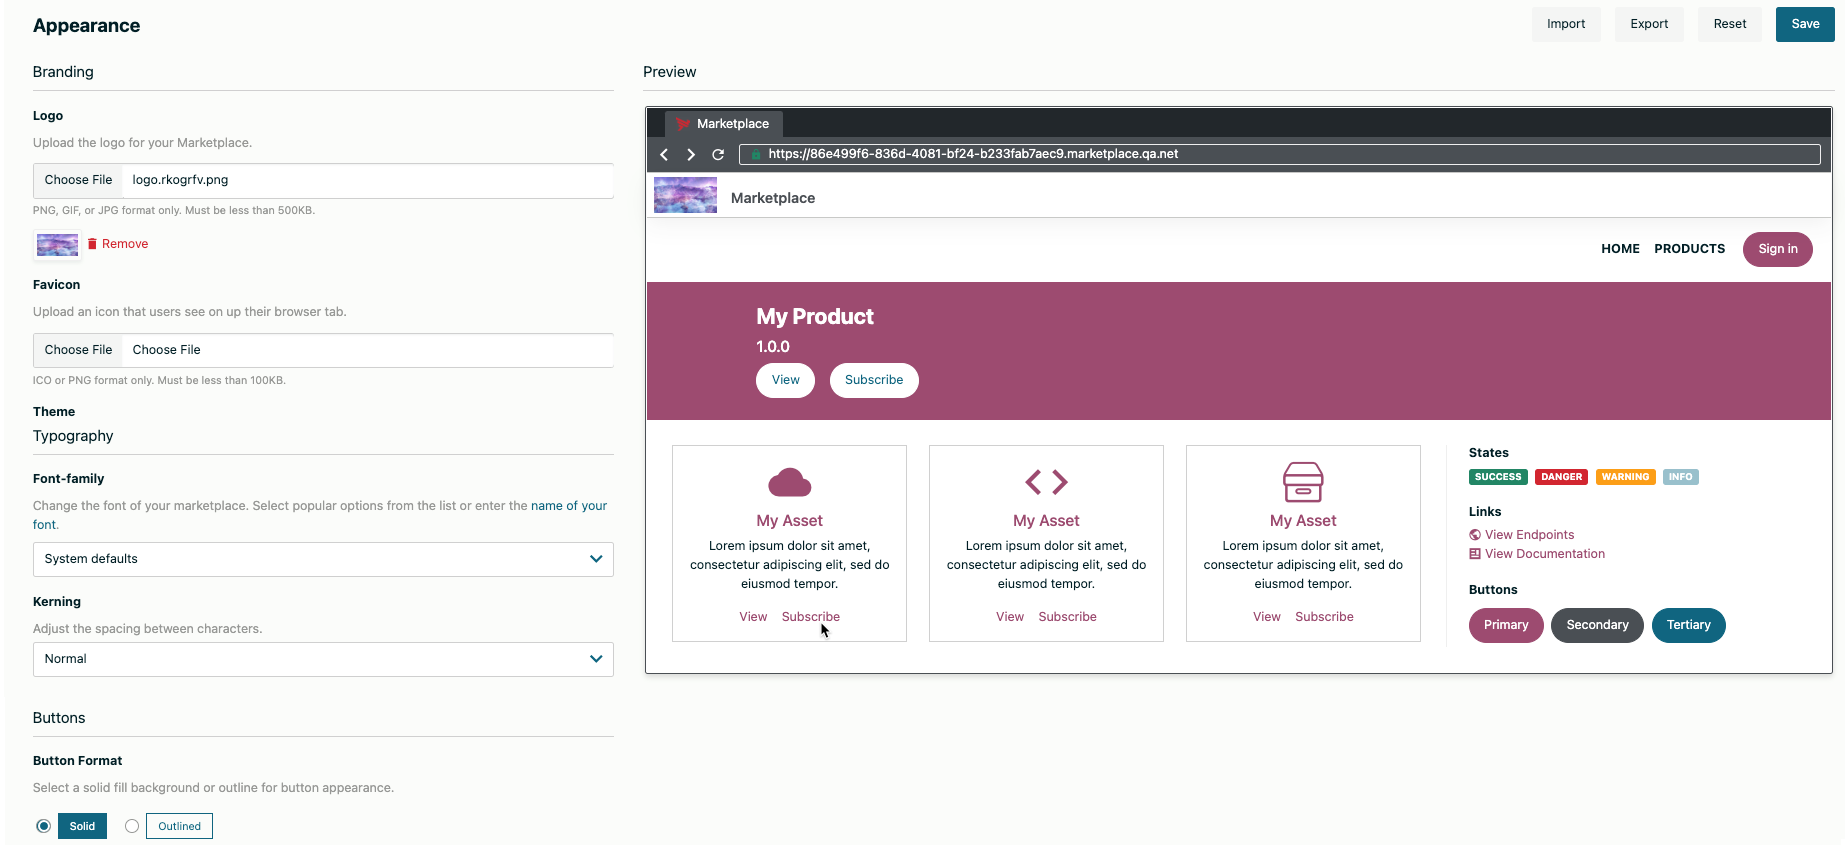
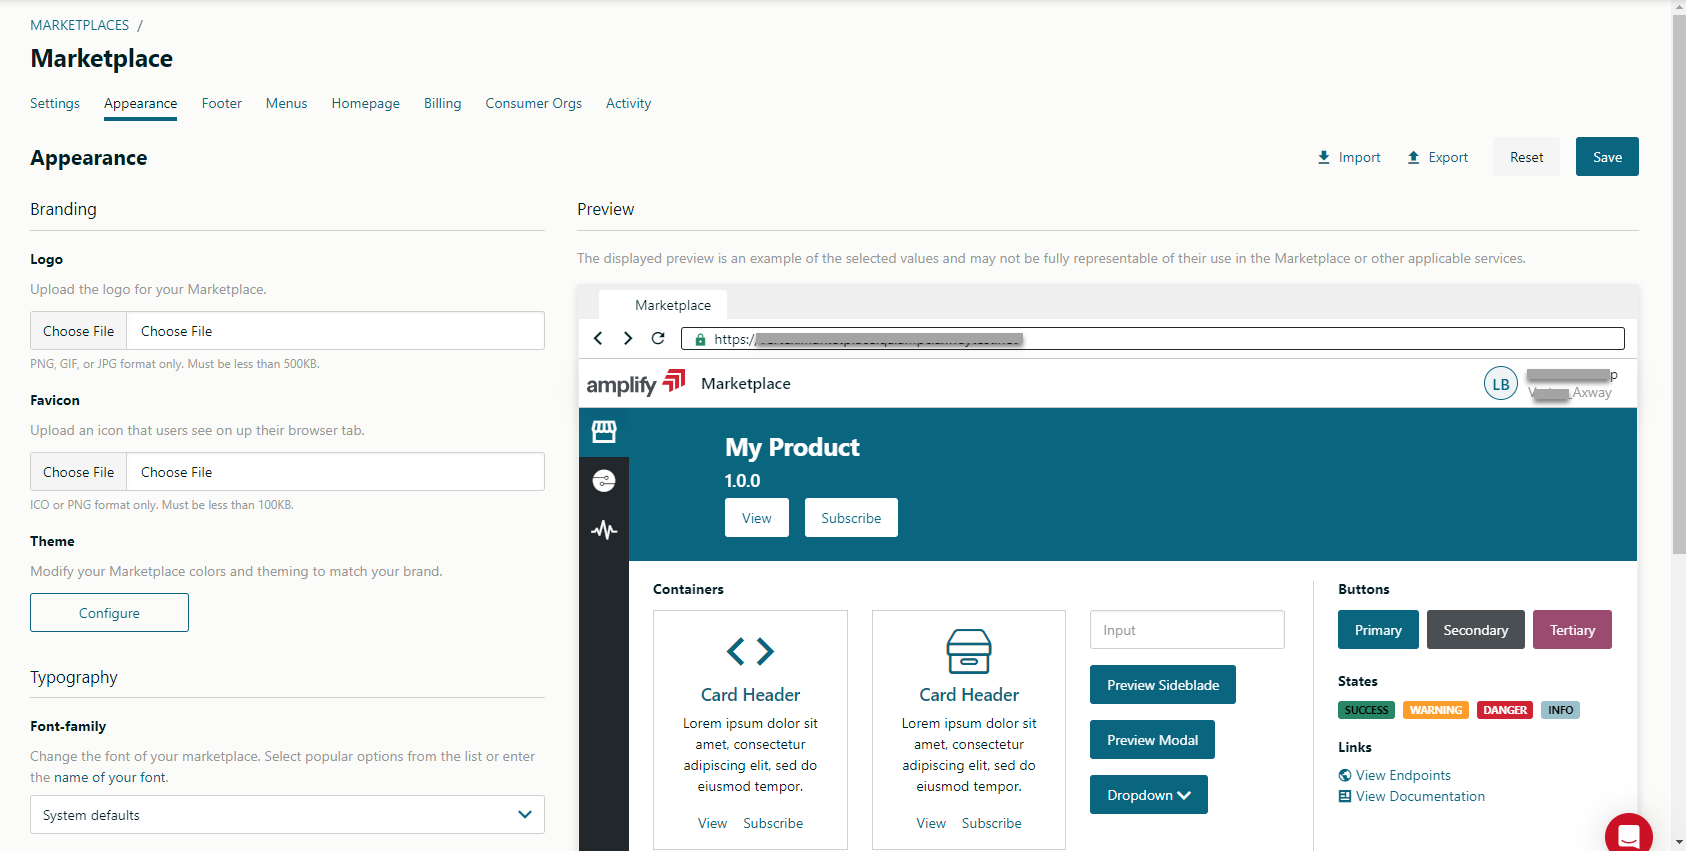
APPTS-13622 Marketplace Appearance (#337)
* Marketplace Appearance

* PO review changes

* Update marketplace_branding.md

diff --git a/content/en/docs/manage_marketplace/customize_marketplace/marketplace_branding.md b/content/en/docs/manage_marketplace/customize_marketplace/marketplace_branding.md
@@ -4,14 +4,22 @@ linkTitle: Marketplace appearance
 weight: 30
 ---
 
-Adjust the branding / appearance of the Marketplace to match the corporate guidelines of the Marketplace owner. The platform administrator may choose to use the Amplify Enterprise Marketplace WebUI or API to change the settings.
+Adjust the branding / appearance of the Marketplace to match the corporate guidelines of the Marketplace owner. The platform administrator may choose to use the Amplify Enterprise Marketplace WebUI or API to change the settings; however, only changes made with the WebUI can be previewed before they are saved.
 
-Standard custom branding capabilities include:
+Standard appearance capabilities include:
 
-* Customize the logo
-* Modify the WebUI color scheme / theme
-* Alter font colors with organization's branding colors
-* Change the contents of the help menu displayed in the navigation bar
+* Branding
+    * Customize the logo
+    * Upload an icon for users to see on the browser tab
+    * Modify the WebUI color scheme / theme
+
+* Typography
+    * Change the font
+    * Change the spacing between characters
+
+* Buttons
+    * Select the background fill of the buttons
+    * Select the default radius of the buttons
 
 ## Before you start
 
@@ -45,53 +53,71 @@ Click **Remove** to remove the logo or favicon image.
 
 From the *Appearance* page, click **Configure** in the Theme section to change the Marketplace colors and theming to match your brand.
 
-The Theme settings are displayed.
+The Theme settings are displayed:
 
-Under **Brand Colors**, you can configure and preview:
+* Click anywhere in the preview to highlight the corresponding colors from the list.
+* Select a color from the list to see it reflected on the preview.
 
-* **Primary** - colors used for icons, card titles, tab menu links (hover and active), and call to action (CTA) buttons.
-* **Secondary** - color for the hero banner.
-* **Tertirary** - color for the product banner.
-* **Black** - color used for page text.
-* **Background** - color of the main Marketplace screens. This setting does not apply to the card elements.
+{{< alert title="Note" color="primary" >}} At any time while you are modifying the theme, simply click **Reset to Amplify Platform defaults** in the Colors section to reset to the default light or dark values.{{< /alert >}}
 
-Under **Semantic Colors**, you can configure and preview:
+Under **Element Colors**, you can customize and preview common elements:
 
-* Alerts, messaging, and common UI patterns:
+* **Text** - color applied to default page text.
+* **Background** - color applied to the page background.
+* **Links** - color applied to clickable text.
+* **Icons** - color applied to icons.
+* **Muted Text** - color applied to details and contextual text.
 
-    * **Success** - color used for the success state icon.
-    * **Danger** - color used for the danger state icon.
-    * **Warning** - color used for the warning state icon.
-    * **Info** - color used for the info state icon.
+Under **Action Colors**, you can customize and preview buttons and other actionable elements:
 
-Under **Element Colors**, you can customize and preview:
+* **Primary** - color used for primary actions, such as icons, card titles, tab menu links (hover and active), and call to action (CTA) buttons.
+* **Secondary** - color for the secondary actions, such as the hero banner.
+* **Tertiary** - color for the supplemental actions, such as the product banner.
 
-* Product details banner:
+Under **Status Colors**, you can customize and preview alerts, badges and other status indicators:
 
-    * **Heading Titles** - color used for page titles, section titles, and title text.
-    * **Heading Backgrounds** - color used for the heading block.
+* **Success** - color used to indicate success or completion.
+* **Danger** - color used to indicate an error or loss of data.
+* **Warning** - color used for to indicate a non-destructive message.
+* **Info** - color used for additional information message.
 
-* Cards:
+Under **Container Colors**, you can customize and preview cards, inputs, rules, modals, sideblades and drop-downs
 
-    * **Card Titles** - color of the card titles.
-    * **Card Backgrounds** - color applied to all card background.
-    * **Card Borders** - color applied to card borders of all card elements in the Marketplace.
+* **Titles** - color used for container element title text.
+* **Text** - color used for container element text.
+* **Backgrounds** - color used for container element backgrounds.
+* **Secondary Backgrounds** - color used for alternate container element backgrounds, such as table headings.
+* **Borders** - color used for container element borders.
+* **Active Text** - color used for text to indicate active state.
+* **Active Backgrounds** - color used for backgrounds to indicate active state.
 
-* Links and icons:
+Under **Header Colors**, you can customize and preview header elements:
 
-    * **Links** - color applied to clickable text on the Marketplace screens.
-    * **Icons** -  color applied to icons next to clickable text on the Marketplace screens.
+* **Title** - color used for page heading text.
+* **Background** - color used for page heading background.
+* **Buttons** - color used for page heading button background
+* **Button Text** - color used for page heading button text.
 
-* Call to Action buttons:
+Under **Navigation Colors**, you can customize and preview the top and left navigation elements:
 
-    * **CTA Button** - color of the buttons displayed in the heading section, such as **View** and **Subscribe**.
-    * **CTA Button Text** - color of the CTA button text.
+* Top Navigation
+    * **Text** - color used for top navigation bar text.
+    * **Background Fill** - pattern used for top navigation background fill.
+    * **Color** - color used for top navigation bar background.
+    * **Menu Background** - color used for top navigation bar drop-down menu backgrounds.
+    * **Icons** - color used for top navigation bar drop-down menu icons.
 
-Click **Reset to Amplify Platform defaults** to reset the colors to the default values.
+* Left Navigation
+    * **Text** - color used for left navigation text.
+    * **Background** - color used for left navigation background.
+    * **Active Text** - color used for left navigation text to indicate active state.
+    * **Active Background** - color used for left navigation backgrounds to indicate active state.
 
-### Change the fonts
+Click **Save** at the top of the page to save your changes or **Reset** to revert the changes to the previous values.
 
-From the *Appearance* page, click **Configure** in the Fonts section to change and preview the Marketplace fonts. The font settings are displayed:
+### Change the font
+
+From the *Appearance* page, select a menu option from the Typography section to change and preview the Marketplace font:
 
 * **Font family** - the font set to display text. You can choose an existing font or add your own font.
 * **Kerning** - adjust the spacing between characters.
@@ -100,34 +126,12 @@ Click **Save** at the top of the page to save your changes or **Reset** to rever
 
 ### Change the buttons appearance
 
-From the *Appearance* page, click **Configure** in the Buttons section to change and preview the Marketplace buttons. The buttons settings are displayed:
+From the *Appearance* page, select a radio button in the Buttons section to change and preview the Marketplace buttons:
 
-* **Button format** - the format of the button: Solid or Outline.
-* **Button radius** - the button radius: Square, Rounded or Round.
+* **Button format** - the format of the button. Choose Solid or Outline.
+* **Button radius** - the button shape. Choose Square, Rounded or Round.
 
 Click **Save** at the top of the page to save your changes or **Reset** to revert the changes to the previous values.
-
-### Customize the help menu
-
-From the *Appearance* page, click **Configure** in the Help Menu section to change the contents of the help menu displayed in the navigation bar. Click **Add menu item** to configure a Help menu. Do the following to configure menu items:
-
-1. Click the question mark icon to select an icon from the drop down menu to use for the help item image.
-2. Type a label for the menu item.
-3. Type a link to the menu item.
-4. Click the up or down arrow keys to move the menu item's position.
-5. Click the delete icon to remove a menu item.
-6. Click **Clear all items** to start with a blank configuration. *No Menu Configured* is displayed.
-
-### Customize the navigation menu
-
-From the *Appearance* page, click **Configure** in the Navigation Menu Items section to add and configure links to the common navigation menu. Click **Add navigation item**, and then do the following to configure menu items:
-
-1. Type a label for the menu item.
-2. Type a link to the menu item.
-3. Click the **+** button to add more menu items.
-4. Click the up or down arrow keys to move the menu item's position.
-5. Click the delete icon to remove a menu item.
-6. Click **Clear all items** to start with a blank configuration. *No Menu Configured* is displayed.
 
 ## Customize the Marketplace appearance with APIs
 
